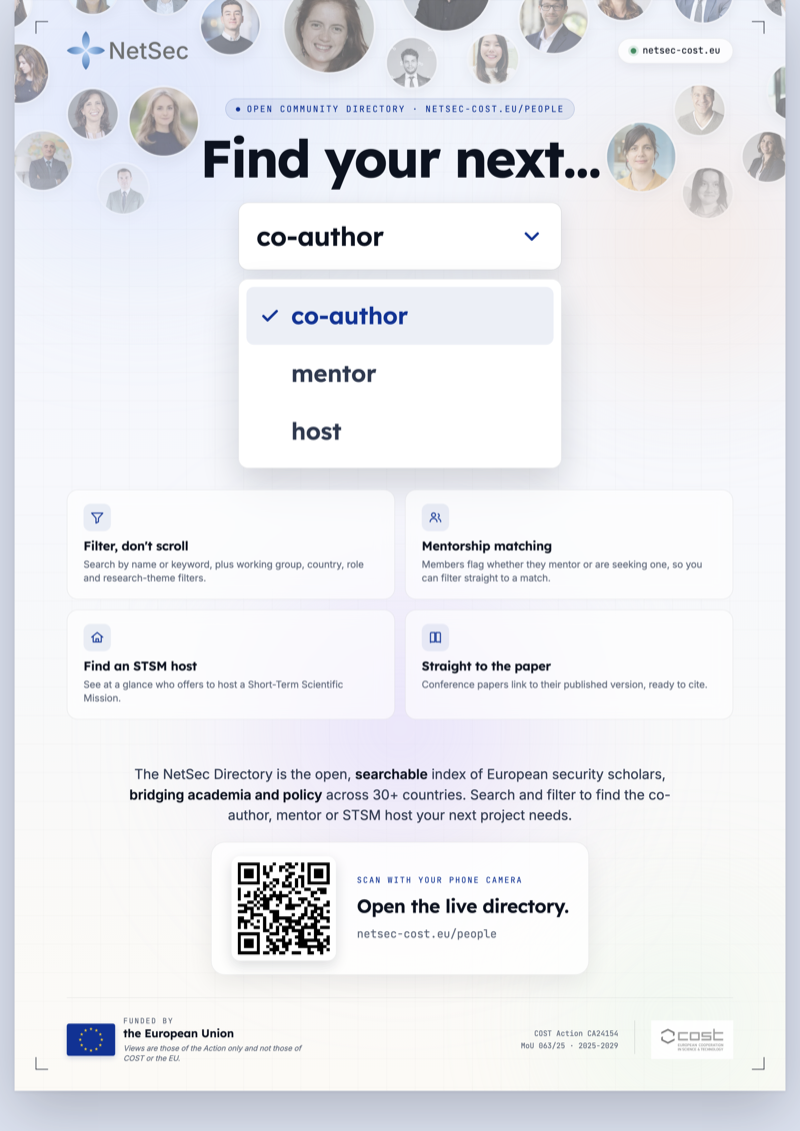
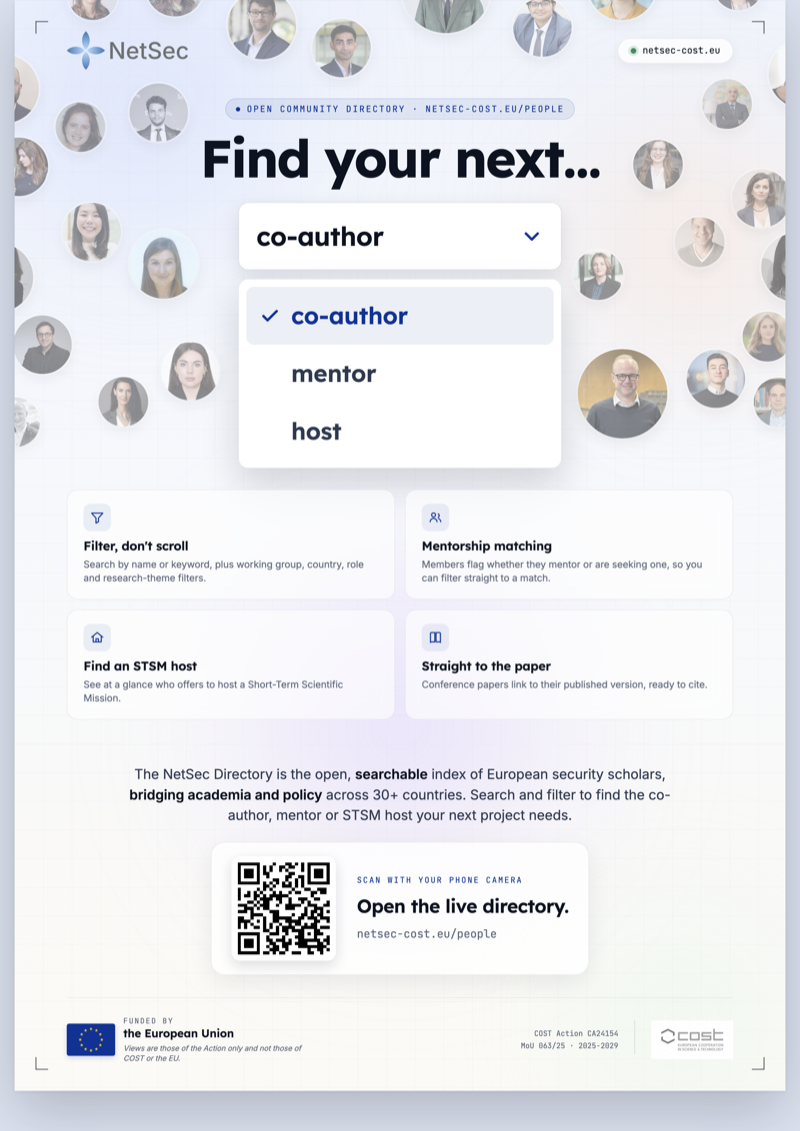
refine(press-kit): flank the poster's selector with floating heads too
Fills the empty gutters either side of the centred role selector. The
Poisson placement region and the fade mask now extend down past the
dropdown, with full keep-outs for the selector and the feature cards,
so a few evenly spaced heads sit beside the menu in addition to
crowning the headline, all still clear of the logos, text, and UI.
Print PNG and small PNG/WebP re-rendered.

diff --git a/docs/promo/poster-find-your-next.html b/docs/promo/poster-find-your-next.html
@@ -141,10 +141,10 @@ h1.title .l{display:block}
 .qr-band .qr-side .qr-h{font-family:var(--serif);font-weight:600;font-size:30px;letter-spacing:-.015em;color:var(--ink);margin-bottom:8px}
 .qr-band .qr-side .qr-u{font-family:var(--mono);font-size:18px;color:var(--muted)}
 
-  /* Floating member heads crowning the headline; Poisson-spaced, clear of logos/text */
+  /* Floating member heads framing the headline + flanking the selector; Poisson-spaced, clear of logos/text */
   .faces{position:absolute;inset:0;z-index:1;overflow:hidden;pointer-events:none;
-    -webkit-mask-image:linear-gradient(180deg,#000 0%,#000 14%,transparent 24%);
-            mask-image:linear-gradient(180deg,#000 0%,#000 14%,transparent 24%)}
+    -webkit-mask-image:linear-gradient(180deg,#000 0%,#000 40%,transparent 46%);
+            mask-image:linear-gradient(180deg,#000 0%,#000 40%,transparent 46%)}
   .faces .fh{position:absolute;border-radius:50%;overflow:hidden;
     box-shadow:0 9px 24px rgba(11,18,32,.12),0 0 0 3px rgba(255,255,255,.85)}
   .faces .fh img{width:100%;height:100%;object-fit:cover;display:block;filter:saturate(.93)}
@@ -161,28 +161,36 @@ h1.title .l{display:block}
       <div class="blob b-mint"  style="width:520px;height:520px;right:-90px;bottom:-150px;opacity:.45"></div>
     </div>
     <div class="faces">
-      <div class="fh" style="left:1062px;top:137px;width:80px;height:80px;opacity:0.44"><img src="/assets/images/people/mark-rhinard.webp" alt="" loading="eager"></div>
-      <div class="fh" style="left:-40px;top:71px;width:94px;height:94px;opacity:0.471"><img src="/assets/images/people/revecca-pedi.webp" alt="" loading="eager"></div>
-      <div class="fh" style="left:434px;top:-28px;width:144px;height:144px;opacity:0.58"><img src="/assets/images/people/marie-robin.webp" alt="" loading="eager"></div>
-      <div class="fh" style="left:812px;top:-25px;width:110px;height:110px;opacity:0.506"><img src="/assets/images/people/arthur-laudrain.webp" alt="" loading="eager"></div>
-      <div class="fh" style="left:-2px;top:211px;width:94px;height:94px;opacity:0.471"><img src="/assets/images/people/seyithan-ahmet-ates.webp" alt="" loading="eager"></div>
-      <div class="fh" style="left:622px;top:-95px;width:144px;height:144px;opacity:0.58"><img src="/assets/images/people/filip-ejdus.webp" alt="" loading="eager"></div>
-      <div class="fh" style="left:1171px;top:212px;width:80px;height:80px;opacity:0.44"><img src="/assets/images/people/sara-russo.webp" alt="" loading="eager"></div>
-      <div class="fh" style="left:135px;top:263px;width:80px;height:80px;opacity:0.44"><img src="/assets/images/people/alexander-lanoszka.webp" alt="" loading="eager"></div>
-      <div class="fh" style="left:185px;top:140px;width:110px;height:110px;opacity:0.506"><img src="/assets/images/people/julia-carver.webp" alt="" loading="eager"></div>
-      <div class="fh" style="left:1204px;top:-53px;width:80px;height:80px;opacity:0.44"><img src="/assets/images/people/sarka-kolmasova.webp" alt="" loading="eager"></div>
-      <div class="fh" style="left:300px;top:-7px;width:94px;height:94px;opacity:0.471"><img src="/assets/images/people/pieter-zhao.webp" alt="" loading="eager"></div>
-      <div class="fh" style="left:-54px;top:-35px;width:80px;height:80px;opacity:0.44"><img src="/assets/images/people/yanina-shved-dogrul.webp" alt="" loading="eager"></div>
-      <div class="fh" style="left:86px;top:-58px;width:80px;height:80px;opacity:0.44"><img src="/assets/images/people/linde-desmaele.webp" alt="" loading="eager"></div>
-      <div class="fh" style="left:1061px;top:-58px;width:94px;height:94px;opacity:0.471"><img src="/assets/images/people/archishman-goswami.webp" alt="" loading="eager"></div>
-      <div class="fh" style="left:953px;top:197px;width:110px;height:110px;opacity:0.506"><img src="/assets/images/people/chiara-ruffa.webp" alt="" loading="eager"></div>
-      <div class="fh" style="left:1075px;top:270px;width:80px;height:80px;opacity:0.44"><img src="/assets/images/people/anna-pagnacco.webp" alt="" loading="eager"></div>
-      <div class="fh" style="left:1212px;top:100px;width:94px;height:94px;opacity:0.471"><img src="/assets/images/people/rusudan-zabakhidze.webp" alt="" loading="eager"></div>
-      <div class="fh" style="left:730px;top:55px;width:80px;height:80px;opacity:0.44"><img src="/assets/images/people/wendy-he.webp" alt="" loading="eager"></div>
-      <div class="fh" style="left:932px;top:-62px;width:94px;height:94px;opacity:0.471"><img src="/assets/images/people/chiara-libiseller.webp" alt="" loading="eager"></div>
-      <div class="fh" style="left:203px;top:-58px;width:80px;height:80px;opacity:0.44"><img src="/assets/images/people/nikolaos-tzifakis.webp" alt="" loading="eager"></div>
-      <div class="fh" style="left:599px;top:61px;width:80px;height:80px;opacity:0.44"><img src="/assets/images/people/eugenio-sanchez.webp" alt="" loading="eager"></div>
-      <div class="fh" style="left:86px;top:143px;width:80px;height:80px;opacity:0.44"><img src="/assets/images/people/gil-baram.webp" alt="" loading="eager"></div>
+      <div class="fh" style="left:1062px;top:349px;width:80px;height:80px;opacity:0.44"><img src="/assets/images/people/mark-rhinard.webp" alt="" loading="eager"></div>
+      <div class="fh" style="left:-40px;top:221px;width:94px;height:94px;opacity:0.471"><img src="/assets/images/people/revecca-pedi.webp" alt="" loading="eager"></div>
+      <div class="fh" style="left:66px;top:164px;width:80px;height:80px;opacity:0.44"><img src="/assets/images/people/marie-robin.webp" alt="" loading="eager"></div>
+      <div class="fh" style="left:343px;top:-15px;width:110px;height:110px;opacity:0.506"><img src="/assets/images/people/arthur-laudrain.webp" alt="" loading="eager"></div>
+      <div class="fh" style="left:1106px;top:127px;width:80px;height:80px;opacity:0.44"><img src="/assets/images/people/seyithan-ahmet-ates.webp" alt="" loading="eager"></div>
+      <div class="fh" style="left:-2px;top:507px;width:94px;height:94px;opacity:0.471"><img src="/assets/images/people/filip-ejdus.webp" alt="" loading="eager"></div>
+      <div class="fh" style="left:-80px;top:391px;width:110px;height:110px;opacity:0.506"><img src="/assets/images/people/sara-russo.webp" alt="" loading="eager"></div>
+      <div class="fh" style="left:622px;top:-91px;width:144px;height:144px;opacity:0.58"><img src="/assets/images/people/alexander-lanoszka.webp" alt="" loading="eager"></div>
+      <div class="fh" style="left:1171px;top:501px;width:80px;height:80px;opacity:0.44"><img src="/assets/images/people/julia-carver.webp" alt="" loading="eager"></div>
+      <div class="fh" style="left:135px;top:606px;width:80px;height:80px;opacity:0.44"><img src="/assets/images/people/sarka-kolmasova.webp" alt="" loading="eager"></div>
+      <div class="fh" style="left:1081px;top:562px;width:94px;height:94px;opacity:0.471"><img src="/assets/images/people/pieter-zhao.webp" alt="" loading="eager"></div>
+      <div class="fh" style="left:236px;top:550px;width:94px;height:94px;opacity:0.471"><img src="/assets/images/people/yanina-shved-dogrul.webp" alt="" loading="eager"></div>
+      <div class="fh" style="left:185px;top:370px;width:110px;height:110px;opacity:0.506"><img src="/assets/images/people/linde-desmaele.webp" alt="" loading="eager"></div>
+      <div class="fh" style="left:802px;top:-3px;width:94px;height:94px;opacity:0.471"><img src="/assets/images/people/archishman-goswami.webp" alt="" loading="eager"></div>
+      <div class="fh" style="left:922px;top:-78px;width:110px;height:110px;opacity:0.506"><img src="/assets/images/people/chiara-ruffa.webp" alt="" loading="eager"></div>
+      <div class="fh" style="left:1201px;top:375px;width:110px;height:110px;opacity:0.506"><img src="/assets/images/people/anna-pagnacco.webp" alt="" loading="eager"></div>
+      <div class="fh" style="left:899px;top:402px;width:80px;height:80px;opacity:0.44"><img src="/assets/images/people/rusudan-zabakhidze.webp" alt="" loading="eager"></div>
+      <div class="fh" style="left:77px;top:326px;width:94px;height:94px;opacity:0.471"><img src="/assets/images/people/wendy-he.webp" alt="" loading="eager"></div>
+      <div class="fh" style="left:86px;top:-48px;width:80px;height:80px;opacity:0.44"><img src="/assets/images/people/chiara-libiseller.webp" alt="" loading="eager"></div>
+      <div class="fh" style="left:1189px;top:607px;width:80px;height:80px;opacity:0.44"><img src="/assets/images/people/nikolaos-tzifakis.webp" alt="" loading="eager"></div>
+      <div class="fh" style="left:185px;top:134px;width:94px;height:94px;opacity:0.471"><img src="/assets/images/people/eugenio-sanchez.webp" alt="" loading="eager"></div>
+      <div class="fh" style="left:1124px;top:-64px;width:80px;height:80px;opacity:0.44"><img src="/assets/images/people/gil-baram.webp" alt="" loading="eager"></div>
+      <div class="fh" style="left:995px;top:225px;width:80px;height:80px;opacity:0.44"><img src="/assets/images/people/meret-steybe.webp" alt="" loading="eager"></div>
+      <div class="fh" style="left:906px;top:561px;width:144px;height:144px;opacity:0.58"><img src="/assets/images/people/moritz-weiss.webp" alt="" loading="eager"></div>
+      <div class="fh" style="left:-39px;top:639px;width:80px;height:80px;opacity:0.44"><img src="/assets/images/people/john-helferich.webp" alt="" loading="eager"></div>
+      <div class="fh" style="left:479px;top:30px;width:94px;height:94px;opacity:0.471"><img src="/assets/images/people/saurav-narain.webp" alt="" loading="eager"></div>
+      <div class="fh" style="left:1154px;top:272px;width:94px;height:94px;opacity:0.471"><img src="/assets/images/people/silvia-damato.webp" alt="" loading="eager"></div>
+      <div class="fh" style="left:1213px;top:64px;width:110px;height:110px;opacity:0.506"><img src="/assets/images/people/eliza-gheorghe.webp" alt="" loading="eager"></div>
+      <div class="fh" style="left:211px;top:-68px;width:94px;height:94px;opacity:0.471"><img src="/assets/images/people/laura-lisboa.webp" alt="" loading="eager"></div>
+      <div class="fh" style="left:-71px;top:88px;width:110px;height:110px;opacity:0.506"><img src="/assets/images/people/mattia-sguazzini.webp" alt="" loading="eager"></div>
     </div>
     <span class="corner tl"></span><span class="corner tr"></span>
     <span class="corner bl"></span><span class="corner br"></span>

diff --git a/CHANGELOG.md b/CHANGELOG.md
@@ -123,7 +123,7 @@ maintainer-facing audience.
 ## [Unreleased]
 
 #### Added
-- A third press-kit poster, the directory-search poster (`docs/promo/poster-find-your-next.html`, A4 portrait), promotes what the Directory lets you do rather than recruiting bios. It reuses the "Find your next…" headline over the directory's role selector (co-author, mentor or host), four capability tiles (filter the directory, mentorship matching, find an STSM host, papers that link to their published version), and a QR code that opens the directory at `netsec-cost.eu/people`. The original "Add your bio" directory poster is unchanged. Listed on the press kit in all three locales with print-PNG and small-PNG downloads, hand-translated for FR and DE. Its background crowns the “Find your next…” headline with a soft band of member headshots, evenly spaced and kept clear of the logos and text, fading down before the selector, to put real faces on the directory.
+- A third press-kit poster, the directory-search poster (`docs/promo/poster-find-your-next.html`, A4 portrait), promotes what the Directory lets you do rather than recruiting bios. It reuses the "Find your next…" headline over the directory's role selector (co-author, mentor or host), four capability tiles (filter the directory, mentorship matching, find an STSM host, papers that link to their published version), and a QR code that opens the directory at `netsec-cost.eu/people`. The original "Add your bio" directory poster is unchanged. Listed on the press kit in all three locales with print-PNG and small-PNG downloads, hand-translated for FR and DE. Its background crowns the “Find your next…” headline with a soft band of member headshots, evenly spaced and kept clear of the logos and text, framing the headline and flanking the selector, fading down before the feature cards, to put real faces on the directory.
 - The News system gains a working archive and issue-driven publishing, bringing it to parity with the sister EISS site. The `/news` page (all three locales) now renders the full chronological list of items from `data/news.json` (each card deep-linkable at `#news-<id>`), where it was a static "archive is empty" placeholder; the home-page "Latest News" block now caps at four items and decays anything older than 18 months, so older items live on in the archive and the RSS feed. Labelling a GitHub issue `news` now publishes it: a workflow reads the issue (with optional `Type:`/`URL:`/`Date:` headers), prepends the item to `data/news.json`, regenerates the feed, and opens an auto-merging PR that closes the issue. Documented in `docs/news-publishing.md`.
 - The Training School page (`/summer-school.html`, all three locales) is rebuilt around editions rather than a single year. It now carries the COST-compliant name "NetSec Training School" (with the Early-Career Scholars Summer School / ECS³ as the subtitle), a forward-looking "next edition" module, and a "past editions" archive, both driven by a new `data/training-school.json` through a light renderer. The next-edition module shows the 2027 edition as "to be announced" with no calendar yet; when an edition is announced with a date, an Add-to-calendar affordance appears on its own. The 2026 archive entry carries the cohort, coordinators, topics, and a photo gallery from the Stockholm edition. The page links directly to EISS's Euro-SWAMOS page, Julia Carver (a Working Group participant) joins the directory so her faculty headshot resolves, and Nicolas Blarel's faculty card now carries his photo. Hand-translated for FR and DE.
 - An "In pictures" photo gallery on the archived ESSC 2026 page (all three locales), between the recap reel and the programme, so the past-conference page reads as a livelier record. The four photos are responsive and lazy-loaded. Training School signposting also improved across the site: a cross-link from the Grants page (the early-career audiences overlap), and the home news card and the visual sitemap now use the "Training School" name. Hand-translated for FR and DE.
